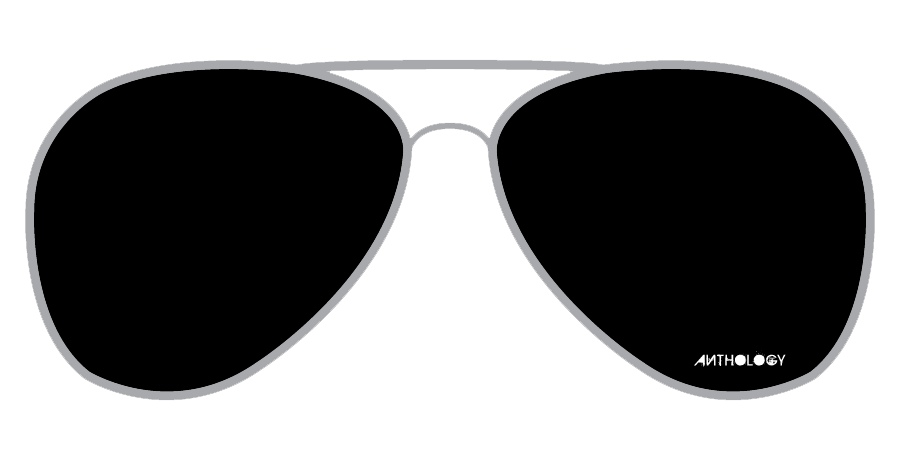
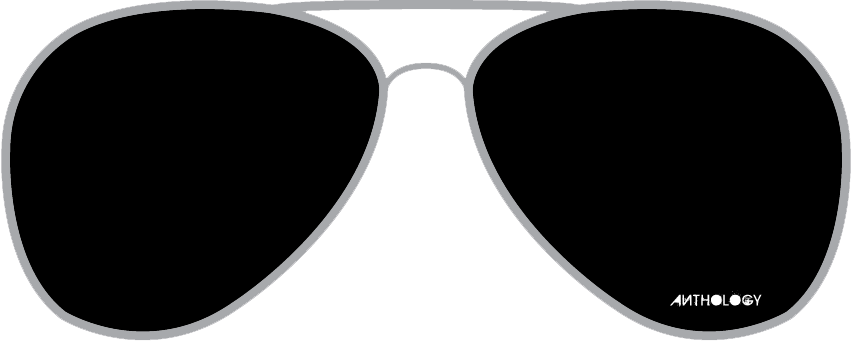
add multithreading
new algo for glasses align

Changed region(s): [[0.0, 0.0, 1.0, 0.9942]]

diff --git a/data-augmentation/main.py b/data-augmentation/main.py
@@ -1,20 +1,28 @@
 import optparse
 import os
+from multiprocessing.dummy import Pool as ThreadPool
 
 import cv2
 import dlib
 import numpy as np
 from PIL import Image
+from PIL import ImageFilter
 from imutils import face_utils
-from imutils.face_utils import FACIAL_LANDMARKS_68_IDXS
+
+from helpers.helpers import mkdir_p
 
 parser = optparse.OptionParser()
-parser.add_option("-f", "--folder")
-parser.add_option("-p", "--percent", default=100)
+parser.add_option("-i", "--input")
+parser.add_option("-o", "--output", type='string')
+parser.add_option("-c", "--cpu", type='int', default=4)
 (options, args) = parser.parse_args()
-folder = options.folder
+input_folder = options.input
+output_folder = options.output
+cpu = options.cpu
 
 sep = os.path.sep
+
+glass_prefix = '_glass_'
 
 detector = dlib.get_frontal_face_detector()
 predictor_data_path = '../shape_predictor_68_face_landmarks.dat'
@@ -22,67 +30,55 @@ predictor = dlib.shape_predictor(predictor_data_path)
 
 
 def main():
-    files = os.listdir(folder)
-    files = files[:1]
+    folders = os.listdir(input_folder)
+    aug_args = []
+
+    for folder in folders:
+        current_dir = os.path.join(input_folder, folder)
+        aug_args.append([current_dir, folder])
+
+    pool = ThreadPool(cpu)
+    pool.map(glass_augmentation_wrapper, aug_args)
+    pool.close()
+    pool.join()
+
+
+def glass_augmentation_wrapper(args):
+    return glass_augmentation(*args)
+
+
+def glass_augmentation(dir, folder):
+    files = os.listdir(dir)
+    mkdir_p(os.path.join(output_folder, folder))
     for file in files:
-        full_path = folder + sep + file
+        full_path = os.path.join(dir, file)
         image = cv2.imread(full_path)
         gray = cv2.cvtColor(image, cv2.COLOR_BGR2GRAY)
         rects = detector(gray, 0)
-        for (i, rect) in enumerate(rects):
-            shape = predictor(gray, rect)
-            shape = face_utils.shape_to_np(shape)
+        if len(rects) == 0:
+            continue
+        rect = rects[0]
+        shape = predictor(gray, rect)
+        shape = face_utils.shape_to_np(shape)
+        w, h, y, x = get_glass_with_and_start(shape, gray.shape[0])
+        glasses = Image.open('filters/glasses.png').convert("RGBA")
+        glasses = glasses.resize((w, h), Image.ANTIALIAS)
+        glasses = glasses.filter(ImageFilter.SMOOTH_MORE)
+        face = Image.fromarray(image[:, :, ::-1])
+        glasses_offset = x, y
+        face.paste(glasses, glasses_offset, glasses)
+        face.save(os.path.join(output_folder, folder, glass_prefix + file))
 
-            (lStart, lEnd) = FACIAL_LANDMARKS_68_IDXS["left_eye"]
-            (rStart, rEnd) = FACIAL_LANDMARKS_68_IDXS["right_eye"]
 
-            left_eye_pts = shape[lStart:lEnd]
-            right_eye_pts = shape[rStart:rEnd]
-            left_eye_center = left_eye_pts.mean(axis=0).astype("int")
-            right_eye_center = right_eye_pts.mean(axis=0).astype("int")
-
-            left_eye_end = shape[rStart]
-            right_eye_start = shape[lEnd - 3]
-
-            cv2.circle(image, tuple(left_eye_center), 2, (0, 255, 0), -1)
-            cv2.circle(image, tuple(right_eye_center), 2, (0, 255, 0), -1)
-
-            cv2.circle(image, tuple(right_eye_start), 2, (0, 255, 0), -1)
-            cv2.circle(image, tuple(left_eye_end), 2, (0, 255, 0), -1)
-
-            mouth_top = shape[51]
-            cv2.circle(image, tuple(mouth_top), 2, (0, 255, 0), -1)
-
-            nose_bottom = shape[33]
-            cv2.circle(image, tuple(nose_bottom), 2, (0, 255, 0), -1)
-
-            mustache_pos = np.mean(shape[[33, 51]], axis=0).astype('int')
-            cv2.circle(image, tuple(mustache_pos), 2, (0, 0, 255), -1)
-
-            chin = shape[1]
-            print(chin)
-            print(mustache_pos)
-            cv2.circle(image, tuple(chin), 2, (255, 0, 0), -1)
-
-            glasses = Image.open('filters/glasses.png')
-            beard = Image.open('filters/beard.png').convert("RGBA")
-            beard = beard.resize((shape[8][1] - shape[1][1]), beard.size[1])
-            glasses_width = left_eye_center[0] - right_eye_center[0]
-
-            glasses_width = int((glasses_width / 2.5) * 5)
-            glasses_height = glasses_width // 2
-            glasses = glasses.resize((glasses_width, glasses_height))
-
-            face = Image.fromarray(image[:, :, ::-1])
-            glasses_offset = right_eye_center[0] - int(glasses_width / 4.5), left_eye_center[1] - glasses_height // 2
-
-            face.paste(glasses, glasses_offset, glasses)
-            face.paste(beard, glasses_offset, beard)
-            face.show()
-            # Show the image
-        # cv2.imshow("Output", image)
-        # cv2.waitKey(0)
-        # cv2.destroyAllWindows()
+def get_glass_with_and_start(shape, pic_width):
+    width = shape[16][0] - shape[0][0]
+    nose_mean = np.mean((shape[29][1])).astype(np.int)
+    up_glass_mean = np.mean((shape[19][1])).astype(np.int)
+    height = nose_mean - up_glass_mean
+    center = pic_width // 2
+    x = center - width // 2
+    y = int(up_glass_mean)
+    return width, height, y, x
 
 
 if __name__ == '__main__':
